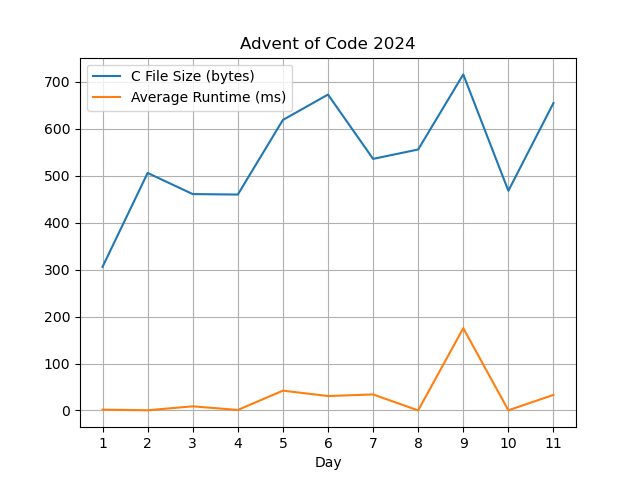
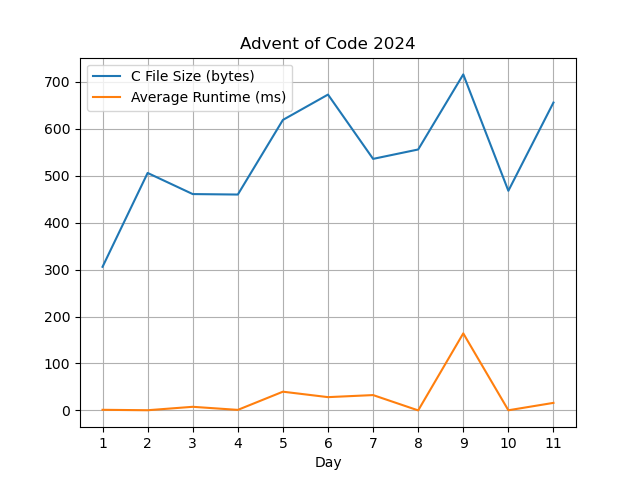
silly optimisation for d11

diff --git a/d11.c b/d11.c
@@ -1,5 +1,5 @@
 #include"a.h"
-#define MS 300007
+#define MS (1<<21)
 L k[MS], v[MS];
 L ins(L kk, L vv)_(I i = kk % MS; W(v[i] && k[i] != kk, i = (i + 1) % MS)
   k[i] = kk; v[i] = vv)
